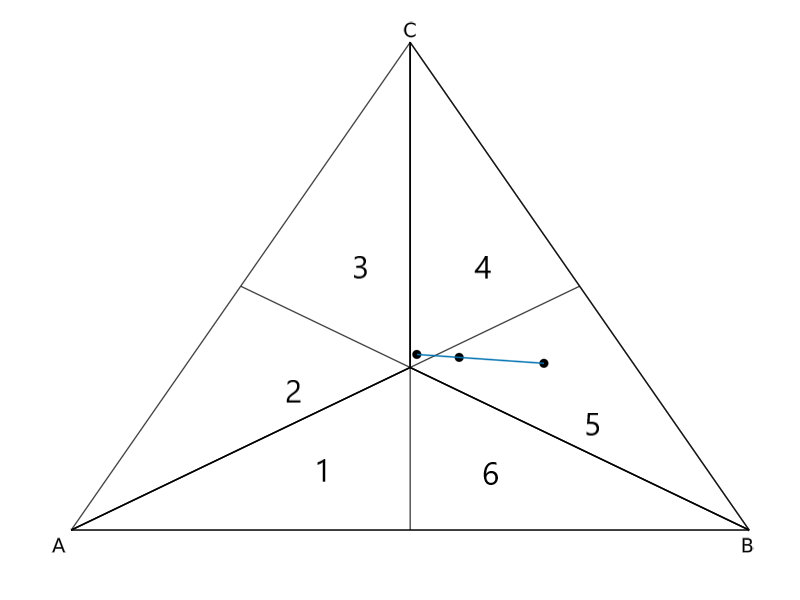
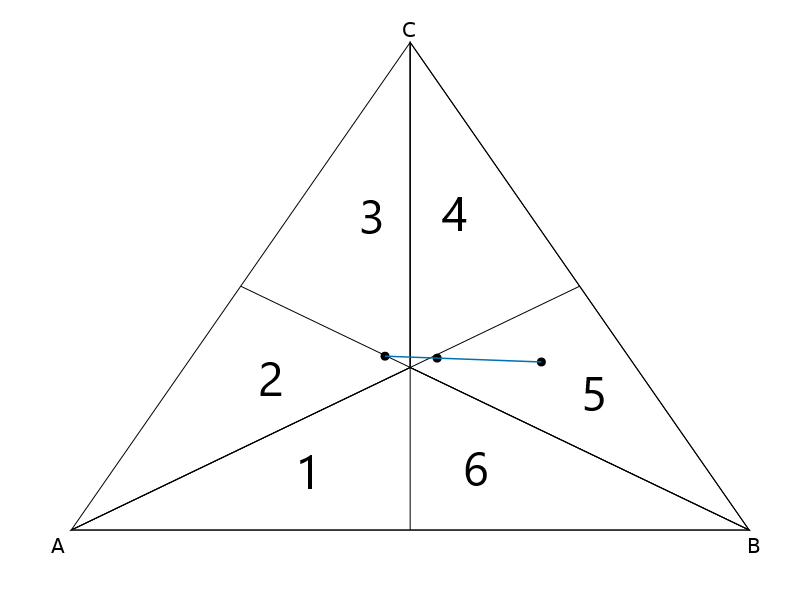
a bit more editing of the text

diff --git a/writing/newer_imputation.tex b/writing/newer_imputation.tex
@@ -358,49 +358,66 @@ positional voting methods, and visualize the positional outcomes for alternative
 
 
 \subsection{Saari's Outcome Simplex}
-\begin{figure}[H] \centering \includegraphics[width=0.8\columnwidth,
-height=0.3\textheight]{./images/simpletriangle.png}
- \caption{Saari's outcome simplex}
- \label{fig:saari_nurmi}
-\end{figure}
 
-Saari's outcome simplex, or point-share triangle
-\parencite{eggers20_diagr_analy_ordin_votin_system}, provides a way of
-visualizing all possible positional voting results of an election\footnote{For a
-complete exposition of this method see \textcite{saari1995basic} or
-\textcite{nurmi2002voting}.}. Consider Figure \ref{fig:saari_nurmi}. The closer
-to a vertex, the better the vertex's position in the social ranking. Region 1
-corresponds to the social ranking of \(A > B > C\), while Region 4 corresponds
-to the social ranking of \(C>B>A\). The lines separating the regions represent
-indifference. The point at which all lines meet corresponds to
-\(A \sim B \sim C\), while the line separating Region 1 and 2 would correspond
-to \(A > B \sim C\). The three dots are the results of the antiplurality, the
-Borda and the plurality voting methods. The line connecting the antiplurality
-and plurality results, the extremes, denotes all possible positional results,
-including the result for the Borda Count. It is called the procedure hull
-\parencite{saari2001chaotic}. The Borda Count point is always closer to the
-antiplurality result. In this example, most positional voting methods would have
-agreed with the plurality procedure outcome of \(B\) as the winner. A related
-triangle, the representation triangle, or profile triangle
-\parencite{eggers20_diagr_analy_ordin_votin_system}, will be used to represent a
-profile compactly. In each ranking region, we plot the frequency of votes that
-match that region's ranking. For 4 candidates, we can use analog representations
-by ``opening'' the 3-simplex/tetrahedron and plotting onto its polyhedral net -
-the arrangement of polyhedrons in the plane that, when folded, become the faces
-of the simplex.
-
-\textcolor{red}{TODO}: the next paragraph should be mixed with the previous one. I talk about the
-point-share triangle, then split the representation. Moreover, I should show the
-representation next to the point-share triangle.
-
-To calculate all positional voting victories, I use two facts proved by Donald
-Saari: first, any positional voting
-method for 4 candidates can be seen as assigning weights to rank positions in a
-standardized manner \((1,s_{1},s_{2},0)\), where
-\(0 \leq s_{2} \leq s_{1} \leq 1\); second, all such procedures will lie in the
+To calculate all positional voting victories, I use a few facts proved by Donald
+Saari. Positional voting methods are those that associate scores to
+positions in voters' preferences. The higher the alternative is in a voter
+preference the higher the score it gets. A better ranked alternative, thus,
+should receive a score at least as big as the next best ranked alternative. Any
+positional voting method that respects that constraint can be defined by a
+vector of weights \(W_{j} = (w_{1}, \cdots, w_{n})\). It is possible that there are weighting schemes that do not follow that constraint, but from now on I'll restrict myself to this subset of positional voting methods. For 3 candidates, plurality is thus \((1,0,0)\), while the borda count is \((3,2,1)\). Note, that plurality could be coded as \((2,0,0)\) or even \((2,1,1)\) and the result would not change. Analogously, the Borda count could be associated with the vector \(2,1,0\) and the result would not change. Any two weigthing vectors \(W_{1}\) and \(W_{2}\) such that \(W_{1} = aW_{2} + b(1,\cdots, 1)\) for \(a,b > 0\) have the same result, in terms of outcome ordering \parencite{saari1995basic}. This equivalence relation can be exploited to standardize positional voting methods. For 4 candidates we have, \((1,s_{1},s_{2},0)\), where
+\(0 \leq s_{2} \leq s_{1} \leq 1\), where in plurality \(s_{1} = s_{2} = 0\) and in the borda count \(s_{1} = {2 \over 3}\) and \(s_{2} = {1 \ over 3}\). For  3 candidates, all such positional voting methods will lie in the line connecting plurality with antipluraliy (\(1,1,0\)) while for 4 candidates  all such procedures will lie in the
 convex hull of the plurality, antiplurality and vote for two procedures, with
 respective weights of \((1,0,0,0), (1,1,1,0), (1,1,0,0)\). Calculating scenarios
 amounts, thus, to vary the values of \(s_{1}\) and \(s_{2}\) \parencite{saari1995basic, saari2001chaotic}.
+
+\begin{figure}[!h] \centering
+  \begin{subfigure}[b]{0.49\textwidth} \centering
+\includegraphics[width=\textwidth]{./images/simpletriangle.png}
+ \caption{Point-share triangle}
+ \label{fig:pointshare}
+\end{subfigure} \hfill
+  \begin{subfigure}[b]{0.49\textwidth} \centering
+\includegraphics[width=\textwidth]{./images/representation_triangle_noth}
+ \caption{Profile triangle}
+ \label{fig:representation}
+\end{subfigure}
+\caption{Saari's triangles}
+\label{fig:saari_nurmi}
+\end{figure}
+
+% \begin{figure}[H] \centering \includegraphics[width=0.8\columnwidth,
+% height=0.3\textheight]{./images/simpletriangle.png}
+%  \caption{Saari's outcome simplex}
+%  \label{fig:saari_nurmi}
+% \end{figure}
+
+Saari's outcome simplex, or point-share triangle
+\parencite{eggers20_diagr_analy_ordin_votin_system}, makes use of the structure
+of positional voting methods to provide a way of visualizing all possible
+positional voting results of an election\footnote{For a complete exposition of
+  this method see \textcite{saari1995basic} or \textcite{nurmi2002voting}.}.
+Consider Figure \ref{fig:pointshare}. The closer to a vertex, the better the
+vertex's position in the social ranking. Region 1 corresponds to the social
+ranking of \(A > B > C\), while Region 4 corresponds to the social ranking of
+\(C>B>A\). The lines separating the regions represent indifference. The point at
+which all lines meet corresponds to \(A \sim B \sim C\), while the line
+separating Region 1 and 2 would correspond to \(A > B \sim C\). The three dots
+are the results of the antiplurality, the Borda and the plurality voting
+methods. The Borda Count point is always closer to the antiplurality result. In
+this example, most positional voting methods would have agreed with the
+plurality procedure outcome of \(B\) as the winner. A related triangle, the
+representation triangle, or profile triangle
+\parencite{eggers20_diagr_analy_ordin_votin_system}, will be used to represent a
+profile compactly. Figure \ref{fig:representation} shows the equivalent profile
+triangle. In each ranking region, we plot the frequency of votes that match that
+region's ranking. For 4 candidates, we can use analog representations by
+``opening'' the 3-simplex/tetrahedron and plotting onto its polyhedral net - the
+arrangement of polyhedrons in the plane that, when folded, become the faces of
+the simplex.
+
+\textcolor{red}{TODO}: I'm still not happy with this explanation.
+
 
 
 \section{Results} The inferred rankings are shown in Figure \ref{fig:rep_ot} and
@@ -540,13 +557,20 @@ In what precise percentage of the cases would a candidate have beaten another?
 Note that by opening the tetrahedron, the information provided by the volume of
 the subregions of the procedure hull is lost. Nevertheless, algebraic
 manipulation of the equations in Table \ref{tbl:ws} allows us to answer this
-question. Table ~\ref{tbl:ctn} presents the percentage of scenarios in which this
-would have happened. It implies a more complex picture of what happened.
-Bolsonaro was the CW, was tied with Ciro as a BW and would have won against Ciro
-in roughly 47\(\%\) of the positional voting methods. Nevertheless, it shows
-that there were scenarios in which he would have lost to the more inclusive
-candidates, Ciro and Alckmin. In Alckmin's case, this could have happened in
-surprising \(30\%\) of the cases. However, Ciro could have beaten him in most,
+question. For instance, when is \( 0.4113\(s_{1}\) + 0.4165\(s_2\) + 0.0514 >
+0.0392\(s_{1}\) + 0.0521\(s_2\) + 0.4992 \) given the aforementioned constraints
+on the values of the parameters? Solving this inequality gives us the intervals
+of the values of the parameters in which Alckmin would have beaten Bolsonaro in
+the set of positional voting procedures. The area of those intervals over the
+area of all the combinations gives us the percentage of scenarios in which a
+candidate could beat another, as shown in Table ~\ref{tbl:ctn} while the actual
+figure whose area is being used is shown in Figure~\ref{fig:positional4c}. Table
+~\ref{tbl:ctn} implies a more complex picture of what happened. Bolsonaro was
+the CW, was tied with Ciro as a BW and would have won against Ciro in roughly
+47\(\%\) of the positional voting methods. Nevertheless, it shows that there
+were scenarios in which he would have lost to the more inclusive candidates,
+Ciro and Alckmin. In Alckmin's case, this could have happened in surprising
+\(30\%\) of the cases. However, Ciro could have beaten him in most,
 \(\approx 53\%\), of the positional voting methods. Surprisingly, Haddad, who
 went to the second round with Bolsonaro, would never have beaten him. The
 explanation for that is the following: as shown in Figure \ref{fig:counts},
@@ -556,7 +580,8 @@ were both divisive, most of their support was in the top choice, they would have
 fared equally well or badly under the same positional voting methods, but since
 Bolsonaro had more first votes and was less frequently in the bottom of the
 rankings than Haddad he actually ``positionally dominated'' Haddad. The same
-logic applies to another surprising result: Alckmin would never have beaten Ciro.
+logic applies to another surprising result: Alckmin would never have beaten
+Ciro.
 
 %% \input{images/table_counterfactuals}
 
@@ -601,7 +626,7 @@ height=0.3\textheight]{./images/counterfactual_triangle.png}
 \end{figure}
 
 
-Nonetheless, the family of positional voting methods is not, in general, Independent
+Nonetheless, the family of positional voting methods does not satisfy, in general,  Independence
 of the Alternative Set \parencite{kaminski2015empirical}. If we drop or add
 candidates, the ``social'' ranking might change without respecting the ordering
 of the baseline set of alternatives. Consider the Borda-induced social ranking
@@ -674,21 +699,22 @@ Positional results after dropping one candidate }
     majoritarian credo end up in conflict.
 
     However, Figure~\ref{fig:notbc1} presents an interesting scenario. Here,
-there is no conflict between the perspectives: under both positional and
-pairwise perspectives on a mandate, Haddad going to the second round was purely
-an institutional fluke. Even though it looks like Haddad would be a plurality
-winner if we dropped Bolsonaro, the plurality point is close to a tie with Ciro,
-and could be read as such, given the uncertainty. Ciro, thus, now would have
-almost 100\(\%\) positional mandate. Moreover, in Table \ref{tbl:margins} it was
-shown that Ciro would have beaten him with a majority pairwise comparison, which
-gives credence to affirming that Ciro would have won under a majority with
-run-off system. In this scenario, the most inclusive candidate would have been
-elected. Ceteris paribus, it seems the only way an agreement between the
-Borda and Condorcet criteria could be guaranteed to exist in the Brazilian 2018
-case would be if Bolsonaro had never been able to run. In this scenario, the
-Condorcet Loser would again be beaten, but now a candidate with a solid mandate,
-as endorsed both by the pairwise majority comparisons and the entire hull of
-positional methods would have been elected.
+    there is no conflict between the perspectives: under both positional and
+    pairwise perspectives on a mandate, Haddad going to the second round was
+    purely an institutional fluke. Even though it looks like Haddad would be a
+    plurality winner if we dropped Bolsonaro, the plurality point is close to a
+    tie with Ciro, and could be read as such, given the uncertainty. Ciro, thus,
+    now would have almost 100\(\%\) positional mandate. Moreover, in Table
+    \ref{tbl:margins} it was shown that Ciro would have beaten him with a
+    majority pairwise comparison, which gives credence to affirming that Ciro
+    would have won under a majority with run-off system. In this scenario, the
+    most inclusive candidate would have been elected. Ceteris paribus, it seems
+    the only way an agreement between the Borda and Condorcet criteria could be
+    guaranteed to exist in the Brazilian 2018 case would be if Bolsonaro had
+    never been able to run. In this scenario, the Condorcet Loser would again be
+    beaten, but now a candidate with a solid mandate, as endorsed both by the
+    pairwise majority comparisons and the entire hull of positional methods
+    would have been elected.
 
 \section{Conclusion}
 
